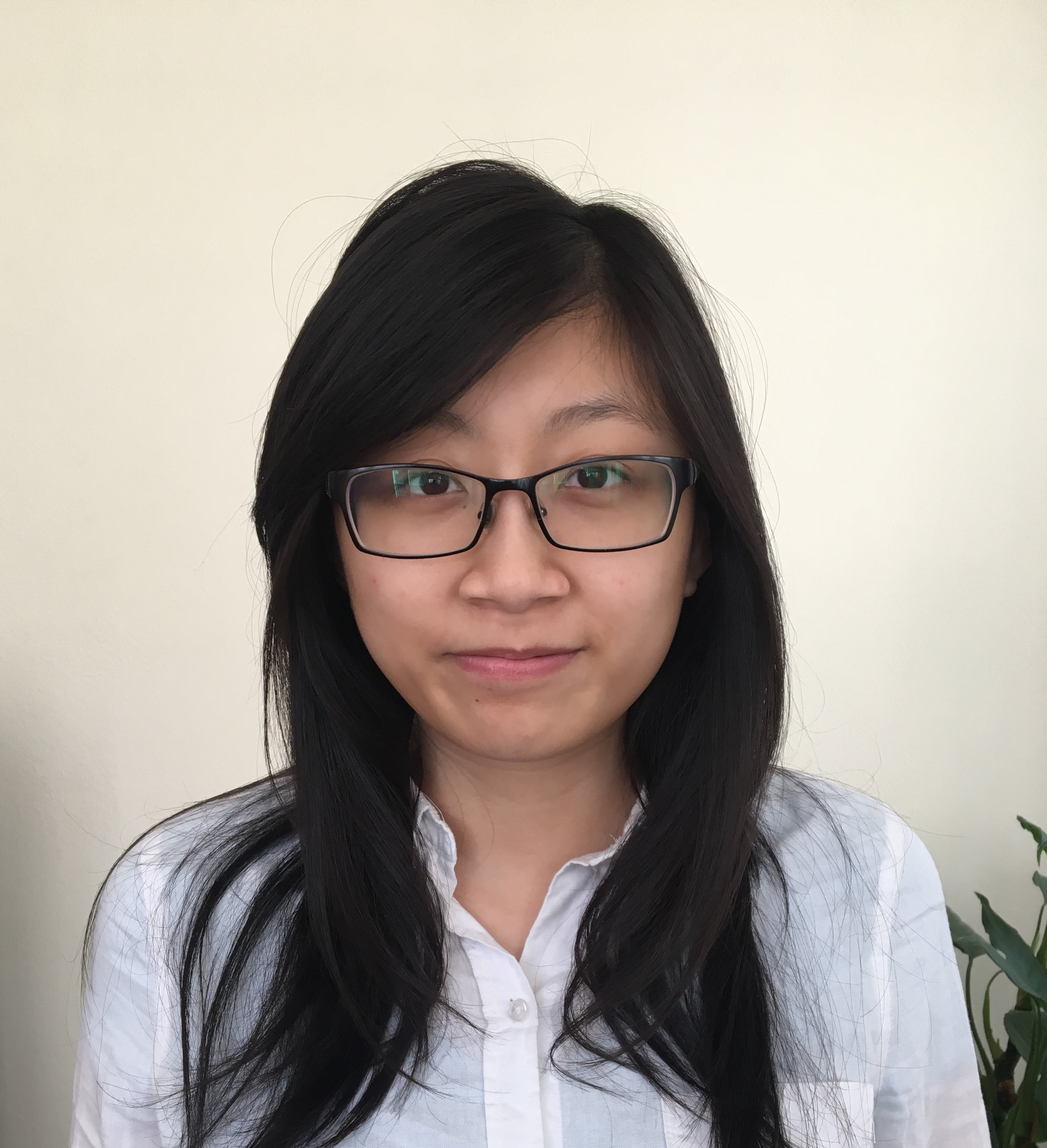
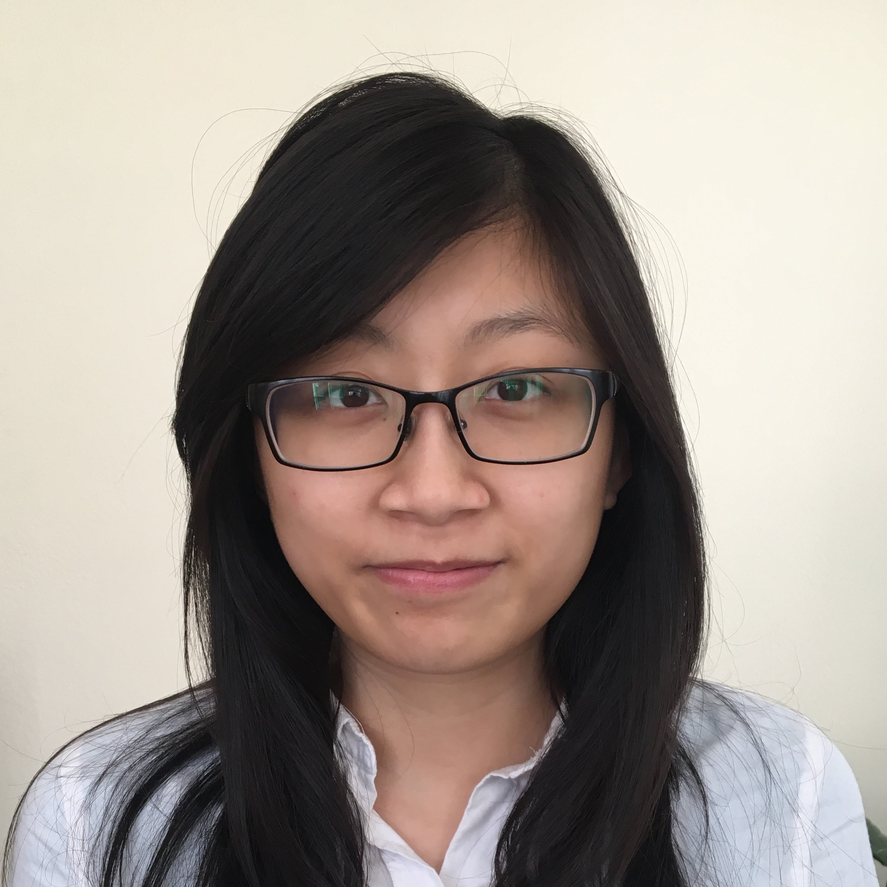
Fix the face images

diff --git a/src/components/OrganizerCell.js b/src/components/OrganizerCell.js
@@ -7,11 +7,7 @@ export default function OrganizerCell(props) {
     const { image, name, title } = props;
 
     return <div className='organizer-cell'>
-        <img src={image} style={{
-            transform: name === 'Adeola Uthman' 
-                && window.matchMedia('(max-width: 768px)').matches === false ? 
-                    'rotateZ(90deg)' : 'none'
-        }}/>
+        <img src={image}/>
         <h3>{name}</h3>
         <p>{title}</p>
     </div>
